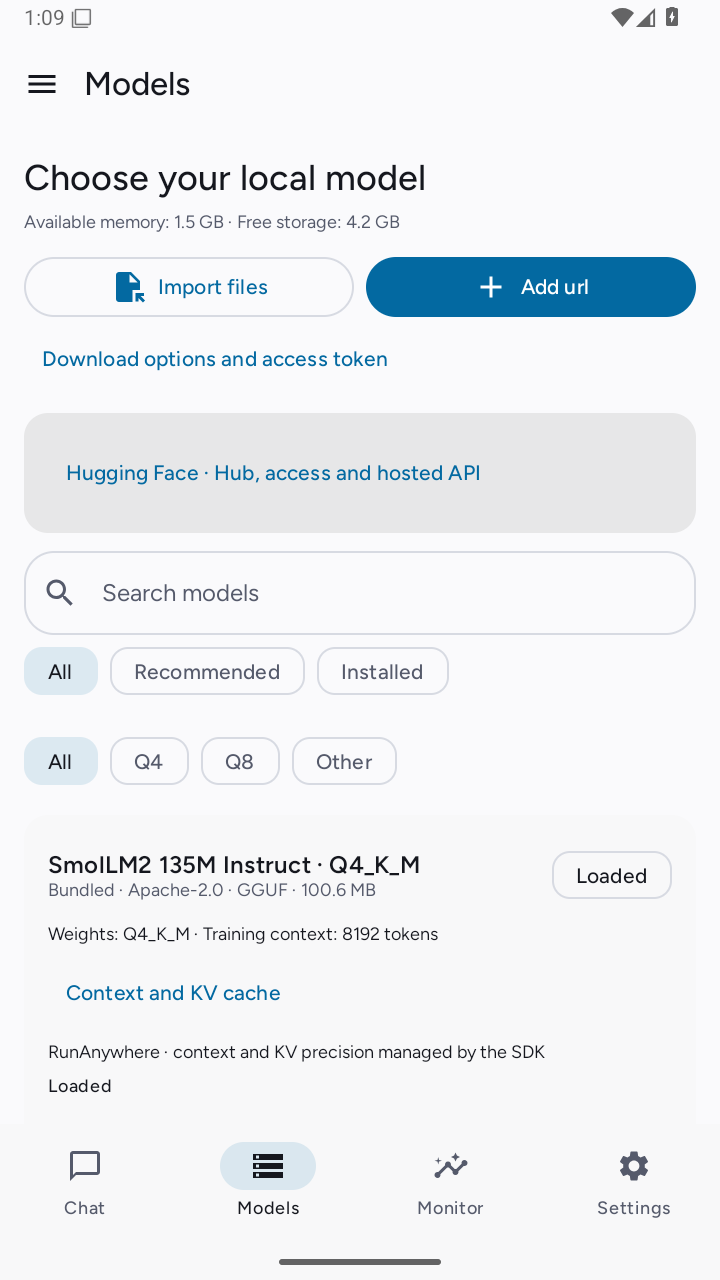
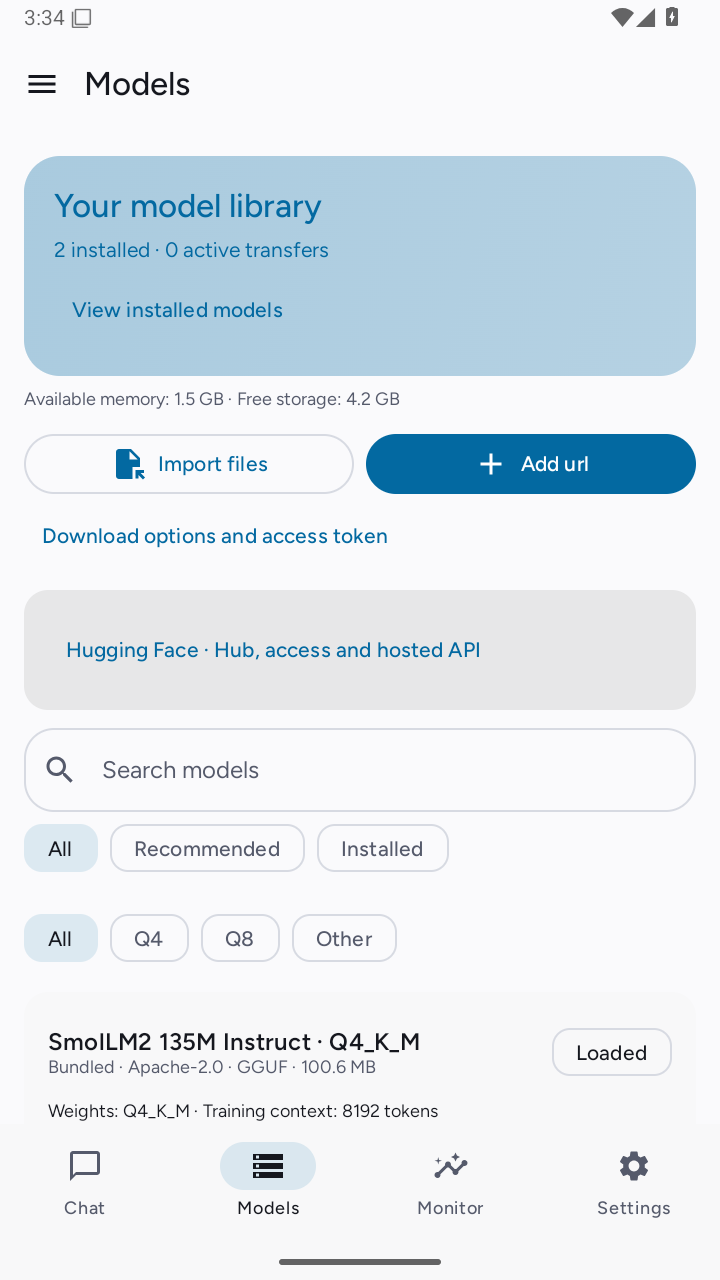
Save final beta validation, screenshots and owner-requested stop handoff

diff --git a/PROGRESS.md b/PROGRESS.md
@@ -14,12 +14,31 @@ emulator observations, host runtime proof and physical-phone proof are separate.
 
 ## Current publication validation (2026-10-07)
 
-Frozen executable source: `db3aaed` (packet bridge/import and unsafe VPN disablement), building
-both Full flavors and Play Review APK/AAB. All 379 targeted unit tests pass (8 audit, 65 cloud, 46 network and 130 app
-per Full flavor). Final Android audit instrumentation passes on API35 x86_64
-(1 test, 9.343 seconds). Final lint is pending; results will be recorded after completion.
-The earlier Play Review APK/AAB assembled, but its last lint run failed during
-source analysis after network source changed. That run is not final evidence.
+Final combined validation **passes** at source `2e37dcd` (Full production code
+unchanged from `db3aaed`; Play Review overlay fix at `53ac70c`). Both Full flavors
+and Play Review APK/AAB build. All **639 targeted unit tests** pass: 8 audit,
+65 cloud, 46 network, 260 inference and 130 app per Full flavor. No failures,
+errors or skipped tests in these suites. Android audit instrumentation passes
+on API35 x86_64 (1 test, 9.343 seconds).
+
+Full lint: **0 fatal/errors, 348 warnings and 17 hints per flavor**. Play Review:
+**0 fatal/errors, 351 warnings and 17 hints**. `abortOnError=true` remains enabled.
+Final log: `../meshlit-validation/release-final-validation.log` (BUILD SUCCESSFUL,
+6m32s). Static Review checks pass for removed permissions/services, policy-copy
+agreement and 23 ARM64 libraries with 16 KiB ELF LOAD alignment. Actual 16 KiB
+runtime/AAB testing and Play approval remain open.
+
+Earlier failure logs are retained: unavailable `android-37` package (fixed to
+`android-37.0`), stale duplicate incremental Review resources (cleared), source-
+analysis interruption, Review overlay telephony lint (fixed explicitly) and
+transient test port bind conflicts (bounded fixture allocation/reuse, TLS/pin/
+authentication assertions preserved). These failed runs are not final evidence.
+
+Final V1 Chat, Models and Monitor were inspected on the emulator; the real bundled
+starter was loaded and the runtime ready. Normal cold launch succeeded in 7.406s
+once Gradle stopped; two launches during concurrent lint had startup ANRs. A visual
+loader-animation capture and physical startup performance remain unverified.
+See `../meshlit-validation/beta-ui-results.json` and `reference-ui/beta-*.png`.
 
 The source includes actual-state boot animation/loader, compact Models/Monitor
 status cards, both-build legal acceptance, encrypted optional audit export and
@@ -44,7 +63,7 @@ docs/observability/. No hosted Grafana account or complete fleet coverage is cla
 Eight core observability tests pass, including actual loopback HTTP/protobuf trace
 and metric receipt, private-text exclusion, retention and committed-write failures.
 The final Android encrypted-journal test passes; see
-`../meshlit-validation/audit-android-final.log`. Full final lint is pending. This is bounded best-effort
+`../meshlit-validation/audit-android-final.log`. Final full lint passes in all three variants. This is bounded best-effort
 observability, not signed/transactional compliance auditing. Native phone sharding,
 replicated recovery and vendor SDK telemetry opt-out remain separate open gates.
 
@@ -53,10 +72,14 @@ live repository badges, IMON credit, contribution forms and llms.txt discovery.
 Source stays Apache-2.0; third-party notices remain. Repository metadata/topics are
 published. Source is pushed to `sabbirimon/meshlit-v2/main`; destination history
 is preserved as an ancestor. The About line and banners say “Many nodes. One mind.”
-Hosted CI SDK setup now passes using the actual `android-37.0` package; hosted
-compile/tests remain in progress. Ranking is not guaranteed;
+Hosted CI passes at `2e37dcd` (run 37536692867), using the actual
+`android-37.0` SDK package. Codex by OpenAI is credited in README/AUTHORS and new
+commit co-author trailers; GitHub sidebar account association is independently
+controlled by GitHub. Ranking is not guaranteed;
 no external promotional posts or invented adoption is claimed. Beta release
-assets are authorized; publication evidence will be recorded below.
+assets are authorized, but no release/assets have been uploaded yet. The owner
+stopped work for sleep and requested local progress saving and asset preparation.
+Read `docs/SESSION_HANDOFF.md` before resuming; no automatic builds or uploads.
 
 ## Agreements and Play review continuation
 

diff --git a/docs/SESSION_HANDOFF.md b/docs/SESSION_HANDOFF.md
@@ -1,0 +1,63 @@
+# Meshlit — stopped at owner request
+
+Paused for today on 2026-10-07 (Asia/Dhaka). Do not resume or publish until IMON requests it.
+
+Project: `/Users/code/Documents/Codex/2026-10-06/re/outputs/meshlit`.
+Remote: https://github.com/sabbirimon/meshlit-v2
+Last pushed code/test commit: `2e37dcd3bc33e146de203d017287107577ff814f`.
+Branch: `codex/meshlit-ui-pipeline-openclaw`.
+
+## Completed validation
+
+`meshlit-validation/release-final-validation.log`: BUILD SUCCESSFUL in 6m32s.
+Both Full flavors and Play Review APK/AAB build. All 639 targeted unit tests pass:
+8 observability, 65 cloud, 46 network, 260 inference, 130 app tests per Full flavor.
+Lint: zero fatal/errors in all three variants; Full 348 warnings/17 hints each,
+Play Review 351 warnings/17 hints. Static review manifest/policy/23 native-library
+alignment checks pass. This is not Play approval or actual 16 KiB device proof.
+
+`meshlit-validation/audit-android-final.log`: one actual API35 x86_64 Android audit
+instrumentation test passes in 9.343 seconds. Final V1 Chat, Models and Monitor
+captures exist; bundled starter observed loaded. Cold launch succeeded in 7.406s
+once Gradle stopped; two starts during lint had ANRs. Physical phones untested.
+
+Hosted CI succeeded for `2e37dcd` (run 37536692867). Earlier failure logs retained:
+SDK package typo, duplicate incremental review resources, review overlay lint,
+and ephemeral TLS fixture bind collision. Fixtures were corrected without changing
+production TCP/TLS behavior. Review overlay explicitly marks telephony optional.
+
+## Publication and credit
+
+Source is pushed; About/README/banners say “Many nodes. One mind.” IMON remains
+owner. Codex by OpenAI is in README/AUTHORS and new commit co-author trailers.
+GitHub's sidebar depends on account/email association; no avatar guarantee.
+Apache-2.0 canonical LICENSE and preserved NOTICE are published.
+
+No beta release or assets have been uploaded yet. GitHub Packages is separate
+from Releases. Do not report release publication as completed.
+
+## Saved local changes and next steps on explicit resume
+
+Final README screenshots/provenance, startup observations, PROGRESS, lint and
+architecture/agent handoff are being saved in a local commit. Release assets are
+being prepared locally at the owner’s subsequent request; no build or network
+upload resumes. Check the local Git log and `../meshlit-beta/` when resuming.
+
+1. Finish recording final evidence and optional Play Review launch/first-use UI
+   observation. An install/start command was in flight when the owner stopped;
+   inspect `meshlit-validation/play-review-launch.log` before launching again.
+2. Update PROGRESS.md, docs/lint-findings.md, architecture/current-state.md and
+   AGENT_BUILD.md with these final results; preserve historical evidence scope.
+3. Commit and push final documentation with the Codex co-author trailer.
+4. Run `work/record-audit-delivery.py` and `work/package-beta.py` from the workspace
+   root. They require the final successful build and Android audit logs, validate
+   bundled model/guide/policy hashes, and create deliverable metadata/checksums.
+5. Create GitHub prerelease v2.0.0-beta.1 targeting the exact final pushed SHA;
+   upload Full ARM64/x86_64 APKs, Play Review ARM64/x86_64 APKs/AAB, release-info,
+   BetaTesting.md and SHA256SUMS. Verify remote assets before declaring published.
+
+Phone oversized-model sharding, replicated recovery, hosted Grafana, rooted VM and
+many companion adapters remain unproven/planned. Vendor SDK telemetry opt-out is
+unresolved. Security tool references were reviewed/pinned, not installed or run.
+No Play submission, root flashing, external promotional messages or resumed work
+is authorized by this checkpoint.

diff --git a/docs/architecture/current-state.md b/docs/architecture/current-state.md
@@ -135,3 +135,17 @@ both checkboxes are mandatory, and app-owned SDK/bootstrap work waits for accept
 Optional permissions/telemetry remain independent. Preserve the original open-source
 license rights and third-party notices. Production release signing must never fall
 back to a debug certificate; owner keys remain external to source.
+
+## Final beta checkpoint and owner stop (2026-10-07)
+
+Read `docs/SESSION_HANDOFF.md` (repository root relative) and PROGRESS.md. Final
+combined Full/Review APK/AAB build passes; 639 unit tests and one API35 x86_64
+Android audit test pass. Full lint has zero errors (348 warnings/17 hints each),
+Review zero errors (351 warnings/17 hints). CI passes at 2e37dcd. Review static
+manifest/policy/23-library ELF alignment checks pass; Play approval and actual
+16 KiB runtime proof remain open. Final emulator Models shows the starter loaded;
+normal cold startup took 7.406s after Gradle stopped, with two ANRs during lint.
+The owner stopped for sleep, then requested progress saving/local release asset
+preparation. Resume builds or GitHub publication only after their next instruction.
+No beta assets have been uploaded. Keep physical phone sharding/recovery, hosted
+Grafana, vendor SDK telemetry opt-out and optional integrations explicitly open.

diff --git a/AGENT_BUILD.md b/AGENT_BUILD.md
@@ -433,3 +433,17 @@ Read `docs/BLUE_TEAM_AND_PACKET_ANALYSIS.md` for static APK analysis, sandbox
 qualification, forensic evidence and mobile-PCAP/desktop-Wireshark boundaries.
 The linked Cuckoo repository is archived. No tool/ruleset executes automatically
 from an imported file or web suggestion. Companion adapters remain planned.
+
+## Final beta checkpoint and owner stop (2026-10-07)
+
+Read `docs/SESSION_HANDOFF.md` (repository root relative) and PROGRESS.md. Final
+combined Full/Review APK/AAB build passes; 639 unit tests and one API35 x86_64
+Android audit test pass. Full lint has zero errors (348 warnings/17 hints each),
+Review zero errors (351 warnings/17 hints). CI passes at 2e37dcd. Review static
+manifest/policy/23-library ELF alignment checks pass; Play approval and actual
+16 KiB runtime proof remain open. Final emulator Models shows the starter loaded;
+normal cold startup took 7.406s after Gradle stopped, with two ANRs during lint.
+The owner stopped for sleep, then requested progress saving/local release asset
+preparation. Resume builds or GitHub publication only after their next instruction.
+No beta assets have been uploaded. Keep physical phone sharding/recovery, hosted
+Grafana, vendor SDK telemetry opt-out and optional integrations explicitly open.

diff --git a/docs/remaining-engine-bugs.md b/docs/remaining-engine-bugs.md
@@ -67,6 +67,8 @@ this unavailable state; live companion capture remains unproven.
 Two normal V1 launches on API35 x86_64 emulator-5580 were killed by Android
 with “failed to complete startup” while full Gradle lint ran on the same host.
 The audit instrumentation itself passes (1 test, 9.343 seconds). No cold-start
-fix or causal attribution is established; normal launch must be retried after
-the build becomes idle, and physical startup remains untested. Evidence:
+fix or causal attribution is established. Once Gradle stopped, a normal cold
+launch succeeded in 7.406 seconds and the final Models screen showed the real
+bundled starter loaded. This establishes a successful emulator launch, not
+a physical startup latency target; physical startup remains untested. Evidence:
 `../meshlit-validation/beta-startup-during-build.log`.

diff --git a/README.md b/README.md
@@ -69,8 +69,9 @@ modes, saved fonts and accessibility scaling remain configurable.
 <td><img src="docs/assets/screenshots/settings.png" width="250" alt="Real Meshlit Android searchable settings screen"></td>
 </tr></table>
 
-Screenshots are real API 35 x86_64 emulator captures from the reference UI
-checkpoint. They demonstrate layout, not phone performance or distributed
+Screenshots are real API 35 x86_64 emulator captures. Chat and Models show the
+final beta UI; Settings comes from the earlier reference UI checkpoint. They
+demonstrate layout, not phone performance or distributed
 inference. Retained legacy tools still need individual UX work. Third-party brands,
 OS keyboards and pickers retain their own identities; Google assets are not copied.
 

diff --git a/docs/lint-findings.md b/docs/lint-findings.md
@@ -1,3 +1,13 @@
+# Final beta lint evidence (2026-10-07)
+
+Both Full flavors: **0 fatal/errors, 348 warnings, 17 hints each**.
+Play Review: **0 fatal/errors, 351 warnings, 17 hints**. Fatal/error gating stays
+enabled; no baseline or blanket suppression was introduced. Explicit optional
+telephony in the Review overlay resolves its SMS-removal lint false positive.
+Final evidence: `../meshlit-validation/release-final-validation.log` and generated
+app XML/HTML reports. Earlier records below remain historical. This is static
+analysis evidence, not store approval or physical UX proof.
+
 # Latest lint evidence (2026-10-06)
 
 Final cloud/browser/files/fonts/help continuation passes full lint in both flavors:
